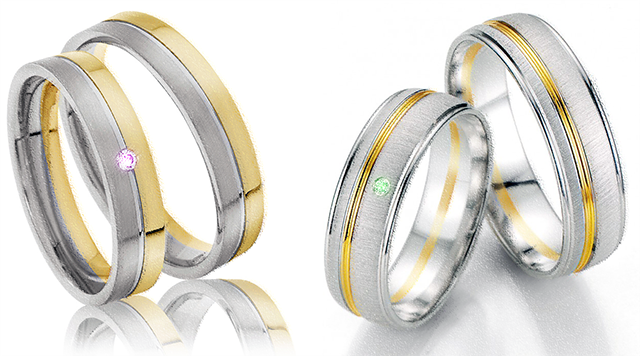
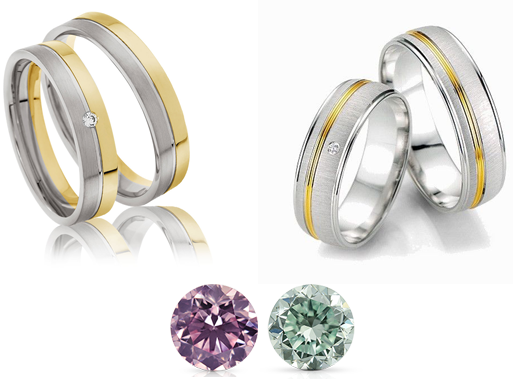
added music list to 2x06 and changed some trivia; also updated the ring images

diff --git a/_chapters/2x06.md b/_chapters/2x06.md
@@ -5,11 +5,42 @@ episode: 6
 chapter: 16
 wordcount: 6281
 audioLength: "0:39:00"
-status: recorded # Can be: planned, published, recorded, produced
+status: published # Can be: planned, published, recorded, produced
 copyrights:
     cover:
       - title: "For you, Sweetheart"
         designer: "ChaseFox"
+    music:
+      - title: "Sunchyme"
+        interpret: "Dario G"
+      - title: "Blue (Da Ba Dee)"
+        interpret: "Eiffel 65"
+      - title: "Blue (Da Ba Dee) (Jazz Cover)"
+        interpret: "Samara York"
+        url: "https://youtu.be/FEiikXlE5cI"
+      - title: "Rockafeller Skank"
+        interpret: "Fatboy Slim"
+      - title: "Your Song"
+        interpret: "Ellie Goulding"
+      - title: "Somewhere only we know"
+        interpret: "Lily Allen"
+        url: "https://youtu.be/mer6X7nOY_o"
+      - title: "Sway"
+        interpret: "Michael Bublé"
+      - title: "Make you feel my love (Acoustic Guitar)"
+        interpret: "Adele"
+      - title: "Can't help falling in love (Acoustic Guitar)"
+        interpret: "Elvis Presley"
+      - title: "Don't stop me now (Piano Cover)"
+        interpret: "Peter Bence"
+        url: "https://youtu.be/LrQnnhAXLt0"
+      - title: "Rhythm of the Night (Moulin Rouge OST)"
+        interpret: "Valeria"
+      - title: "Ready to run"
+        interpret: "Dixie Chicks"
+      - title: "Father and Son (Saxophone Cover)"
+        interpret: "James E. Green"
+        url: "https://youtu.be/VIMKlGbMtrg"
 links:
     - deviantart:
       url: "http://fav.me/dbaph59"
@@ -24,8 +55,8 @@ links:
       url: "http://archiveofourown.org/works/7451674/chapters/17828854"
       message: ""
     - youtube:
-      url: ""
-      message: "This audio drama is scheduled to be published on Jun 12, 2017!"
+      url: "https://youtu.be/fy0SprTmXPU?list=PLIVs1D93vz38riF4nqo5uTmGpoU1yWeko"
+      message: ""
 quote:
     text: "You know you’re in love when you can’t fall asleep because reality is finally better than your dreams."
     source: "Dr. Seuss"
@@ -37,6 +68,7 @@ She didn't know how she managed to say 'yes' to his proposal, because right now 
  * The last two wedding rings that Judy and Nick selected and have to decide between are looking similiar to those:
  <img src="/assets/img/story/2x06-Wedding_Rings.png" />
  * They ultimately decide for the rings on the right side of the picture.
- * The small parts of the songs Nick and Judy are singing in Bunnyburrow are part of the _Elephant Love Medley_ from _Moulin Rouge_ - one of Judy's favorite movies.
- * Even if it is only for one day, but Stu had already replaced the wooden frame of Nick and Judy in the big living room with one made of silver when Nick and Judy went to Bunnyburrow.
+ * The engraving of the rings will be revealed after their wedding.
+ * The small parts of the songs Nick and Judy are singing in Bunnyburrow, except for _I would do anything for love_ by _Meat Loaf_, are part of the _Elephant Love Medley_ from _Moulin Rouge_.
+ * Even if it is only for one day, but Stu replaced the wooden frame of Nick and Judy in the big living room with one made of silver before breakfast on Saturday.
  * Instead of having the wedding-chapter directly after the proposal I thought it would be nice to have some insights into all the necessary preparations they still have to do. Also there is quite some insecurity on Judy's side, but also on Nick's.
